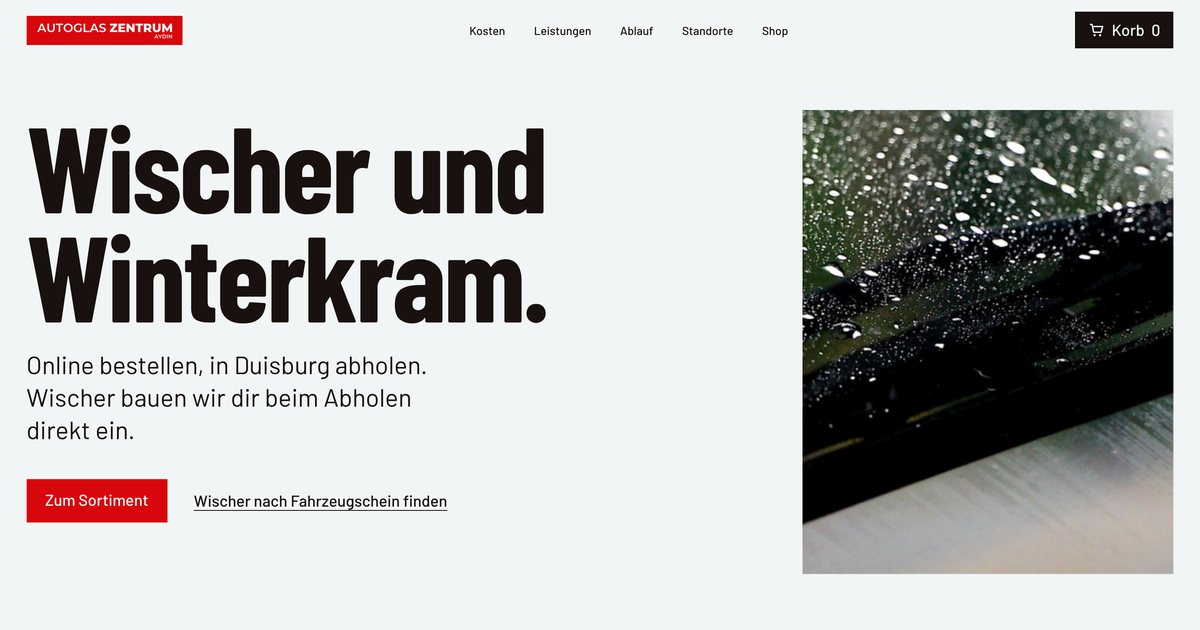
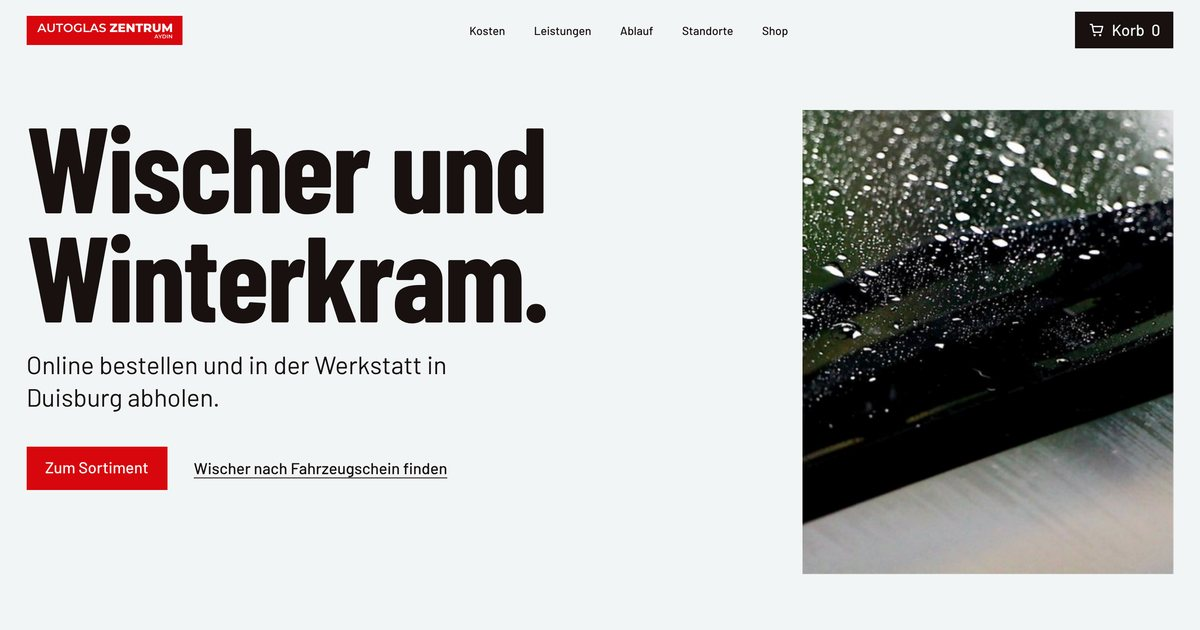
QA-Abnahme: letzte unbelegte Zusagen entschärft (Firmenhof, Wischer-Einbau, besorgen, Gummersbach geplant)
Alle Gates bestanden: Lint 0/0, Prüfer 0 FAIL auf beiden Seiten, 49/49
Funktionstests, Einzeldateien offline ohne Fehler, Docker mit noindex.

Claude-Session: https://claude.ai/code/session_01LPqz5AZFZjiiaU7bBMp3kH

Changed region(s): [[0.0, 0.573, 0.37, 0.8444]]

diff --git a/vorschau-einzeldatei/Autoglas-Aydin-Startseite.html b/vorschau-einzeldatei/Autoglas-Aydin-Startseite.html
@@ -691,7 +691,7 @@ input[type="range"]::-moz-range-thumb { width: 1.6rem; height: 1.6rem; backgroun
     <li><a href="https://wa.me/4917620908479?text=Hallo%2C%20ich%20habe%20eine%20Frage%20zur%20Versicherung" data-wa><span>Abrechnung</span><span>Direkt mit der Versicherung</span><span>alle gängigen Versicherer</span></a></li>
     <li><a href="https://wa.me/4917620908479?text=Hallo%2C%20ich%20brauche%20eine%20Scheibe%20f%C3%BCr%20Pkw%2FSUV%2FTransporter" data-wa><span>Fahrzeuge</span><span>Pkw, SUV, Transporter</span><span>alle Marken</span></a></li>
     <li><a href="https://wa.me/4917620908479?text=Hallo%2C%20ich%20brauche%20eine%20Scheibe%20f%C3%BCr%20Wohnmobil%2FLkw%2FUS-Car" data-wa><span>Fahrzeuge</span><span>Wohnmobil, Lkw, US-Car</span><span>auch große Scheiben</span></a></li>
-    <li class="gruppe"><a href="https://wa.me/4917620908479?text=Hallo%2C%20wir%20sind%20eine%20Firma%20mit%20mehreren%20Fahrzeugen" data-wa><span>Firmen</span><span>Fuhrparks und Dienstwagen</span><span>auch auf eurem Hof</span></a></li>
+    <li class="gruppe"><a href="https://wa.me/4917620908479?text=Hallo%2C%20wir%20sind%20eine%20Firma%20mit%20mehreren%20Fahrzeugen" data-wa><span>Firmen</span><span>Fuhrparks und Dienstwagen</span><span>für Firmenkunden</span></a></li>
     <li><a href="Autoglas-Aydin-Shop.html"><span>Zubehör</span><span>Wischer und Pflege</span><span>zum Shop</span></a></li>
   </ul>
 </section>
@@ -761,12 +761,12 @@ input[type="range"]::-moz-range-thumb { width: 1.6rem; height: 1.6rem; backgroun
     </form>
   </div>
   <figure class="karte" data-karte>
-    <svg viewBox="0 0 982 911" role="img" aria-labelledby="karte-titel" data-karte-svg><title id="karte-titel">Karte: Werkstatt Duisburg mit 50-Kilometer-Umkreis, Standort Essen (Adresse folgt) und Gummersbach (bald)</title></svg>
+    <svg viewBox="0 0 982 911" role="img" aria-labelledby="karte-titel" data-karte-svg><title id="karte-titel">Karte: Werkstatt Duisburg mit 50-Kilometer-Umkreis, Standort Essen (Adresse folgt) und Gummersbach (geplant)</title></svg>
   </figure>
   <a class="standorte__adresse" href="https://maps.app.goo.gl/vNScVN2UxSXLt74x9" rel="noopener"><span>Duisburger</span> <span>Str. 150</span></a>
   <div class="standorte__ecken">
     <p>47166 Duisburg-Obermarxloh · Mo bis Sa 9:30 bis 18:00 · <a href="tel:+4920336989833">0203 36989833</a></p>
-    <p>Essen: Adresse folgt · Gummersbach: bald, Neues auf <a href="https://www.instagram.com/autoglaszentrumaydin/" rel="noopener">Instagram</a></p>
+    <p>Essen: Adresse folgt · Gummersbach: geplant, Neues auf <a href="https://www.instagram.com/autoglaszentrumaydin/" rel="noopener">Instagram</a></p>
   </div>
 </section>
 
@@ -1090,7 +1090,7 @@ window.AZA_MAP = {"bbox":[5.95,7.72,50.95,51.98],"latc":51.45,"kx":69.3743294438
     };
     marke(WERKSTATT.lat, WERKSTATT.lon, 'Werkstatt Duisburg', 'haupt', [18, -16, 'start']);
     marke(51.4556, 7.0116, 'Essen, Adresse folgt', 'bald', [18, 32, 'start']);
-    marke(51.0266, 7.5646, 'Gummersbach, bald', 'bald', [-16, -18, 'end']);
+    marke(51.0266, 7.5646, 'Gummersbach, geplant', 'bald', [-16, -18, 'end']);
 
     // Prüfer
     const form = $('[data-pruefer]'); const input = $('[data-ort-eingabe]'); const out = $('[data-ergebnis-ort]'); const dl = $('[data-orte-liste]');
@@ -1102,7 +1102,7 @@ window.AZA_MAP = {"bbox":[5.95,7.72,50.95,51.98],"latc":51.45,"kx":69.3743294438
       const d = Math.max(1, Math.round(kmZwischen(WERKSTATT, { lat, lon })));
       const zuGummersbach = kmZwischen({ lat: 51.0266, lon: 7.5646 }, { lat, lon });
       if (d <= 50) sag(`${name}: rund ${d} km Luftlinie. Wir kommen zu dir, oder du kommst vorbei.`);
-      else if (zuGummersbach < 28) sag(`${name}: rund ${d} km. In Gummersbach eröffnen wir bald, dann bist du näher dran.`);
+      else if (zuGummersbach < 28) sag(`${name}: rund ${d} km. In Gummersbach ist ein Standort geplant, dann bist du näher dran.`);
       else sag(`${name}: rund ${d} km, das ist weiter als unsere 50 km. Komm in die Werkstatt nach Duisburg oder ruf kurz an.`);
       ziel.textContent = '';
       const [x, y] = P(lat, lon);

diff --git a/vorschau-einzeldatei/Autoglas-Aydin-Shop.html b/vorschau-einzeldatei/Autoglas-Aydin-Shop.html
@@ -763,7 +763,7 @@ details.fuss__nachweis p { margin-top: 0.6rem; font-size: var(--step-body); }
 <section class="shopstart rand" aria-labelledby="shop-titel">
   <div class="shopstart__text">
     <h1 class="shopstart__titel" id="shop-titel"><span>Wischer und</span> <span>Winterkram.</span></h1>
-    <p class="shopstart__stuetze">Online bestellen, in Duisburg abholen. Wischer bauen wir dir beim Abholen direkt ein.</p>
+    <p class="shopstart__stuetze">Online bestellen und in der Werkstatt in Duisburg abholen.</p>
     <div class="shopstart__aktion">
       <a class="knopf knopf--rot" href="#sortiment">Zum Sortiment</a>
       <a class="textlink" href="#finder">Wischer nach Fahrzeugschein finden</a>
@@ -839,7 +839,7 @@ details.fuss__nachweis p { margin-top: 0.6rem; font-size: var(--step-body); }
 <section class="montage rand" aria-labelledby="montage-titel">
   <h2 id="montage-titel" data-auftritt><span>Hast eh einen Termin?</span> <span>Legen wir dazu.</span></h2>
   <div class="montage__text" data-auftritt>
-    <p>Neue Wischer oder Winterreiniger zum Termin? Schreib es in die WhatsApp. Wir legen alles bereit, Wischer bauen wir direkt ein.</p>
+    <p>Neue Wischer oder Winterreiniger zum Termin? Schreib es in die WhatsApp, wir legen alles bereit.</p>
     <a class="knopf knopf--rot" href="https://wa.me/4917620908479?text=Hallo%2C%20ich%20habe%20einen%20Termin%20und%20m%C3%B6chte%20Zubeh%C3%B6r%20dazu." data-wa><svg aria-hidden="true"><use href="#i-chat"/></svg>Zum Termin dazulegen</a>
   </div>
 </section>
@@ -1132,7 +1132,7 @@ details.fuss__nachweis p { margin-top: 0.6rem; font-size: var(--step-body); }
     };
     marke(WERKSTATT.lat, WERKSTATT.lon, 'Werkstatt Duisburg', 'haupt', [18, -16, 'start']);
     marke(51.4556, 7.0116, 'Essen, Adresse folgt', 'bald', [18, 32, 'start']);
-    marke(51.0266, 7.5646, 'Gummersbach, bald', 'bald', [-16, -18, 'end']);
+    marke(51.0266, 7.5646, 'Gummersbach, geplant', 'bald', [-16, -18, 'end']);
 
     // Prüfer
     const form = $('[data-pruefer]'); const input = $('[data-ort-eingabe]'); const out = $('[data-ergebnis-ort]'); const dl = $('[data-orte-liste]');
@@ -1144,7 +1144,7 @@ details.fuss__nachweis p { margin-top: 0.6rem; font-size: var(--step-body); }
       const d = Math.max(1, Math.round(kmZwischen(WERKSTATT, { lat, lon })));
       const zuGummersbach = kmZwischen({ lat: 51.0266, lon: 7.5646 }, { lat, lon });
       if (d <= 50) sag(`${name}: rund ${d} km Luftlinie. Wir kommen zu dir, oder du kommst vorbei.`);
-      else if (zuGummersbach < 28) sag(`${name}: rund ${d} km. In Gummersbach eröffnen wir bald, dann bist du näher dran.`);
+      else if (zuGummersbach < 28) sag(`${name}: rund ${d} km. In Gummersbach ist ein Standort geplant, dann bist du näher dran.`);
       else sag(`${name}: rund ${d} km, das ist weiter als unsere 50 km. Komm in die Werkstatt nach Duisburg oder ruf kurz an.`);
       ziel.textContent = '';
       const [x, y] = P(lat, lon);
@@ -1292,7 +1292,7 @@ details.fuss__nachweis p { margin-top: 0.6rem; font-size: var(--step-body); }
       regal.appendChild(li);
     });
     const extra = document.createElement('li'); extra.className = 'anfrage';
-    extra.innerHTML = `<h3>Nicht dabei? Wir besorgen es.</h3><p>Spezielle Wischer, Pflege oder Zubehör für dein Modell. Kurz schreiben, wir sagen dir Preis und Termin.</p><a class="knopf knopf--rot" href="${WA + encodeURIComponent('Hallo, ich suche folgendes Zubehör: ')}" data-wa>Per WhatsApp fragen</a>`;
+    extra.innerHTML = `<h3>Nicht dabei? Schreib uns, was du suchst.</h3><p>Spezielle Wischer, Pflege oder Zubehör für dein Modell. Kurz schreiben, wir sagen dir Preis und Termin.</p><a class="knopf knopf--rot" href="${WA + encodeURIComponent('Hallo, ich suche folgendes Zubehör: ')}" data-wa>Per WhatsApp fragen</a>`;
     regal.appendChild(extra);
     knoepfeMarkieren();
     auftritt();

diff --git a/index.html b/index.html
@@ -211,7 +211,7 @@
     <li><a href="https://wa.me/4917620908479?text=Hallo%2C%20ich%20habe%20eine%20Frage%20zur%20Versicherung" data-wa><span>Abrechnung</span><span>Direkt mit der Versicherung</span><span>alle gängigen Versicherer</span></a></li>
     <li><a href="https://wa.me/4917620908479?text=Hallo%2C%20ich%20brauche%20eine%20Scheibe%20f%C3%BCr%20Pkw%2FSUV%2FTransporter" data-wa><span>Fahrzeuge</span><span>Pkw, SUV, Transporter</span><span>alle Marken</span></a></li>
     <li><a href="https://wa.me/4917620908479?text=Hallo%2C%20ich%20brauche%20eine%20Scheibe%20f%C3%BCr%20Wohnmobil%2FLkw%2FUS-Car" data-wa><span>Fahrzeuge</span><span>Wohnmobil, Lkw, US-Car</span><span>auch große Scheiben</span></a></li>
-    <li class="gruppe"><a href="https://wa.me/4917620908479?text=Hallo%2C%20wir%20sind%20eine%20Firma%20mit%20mehreren%20Fahrzeugen" data-wa><span>Firmen</span><span>Fuhrparks und Dienstwagen</span><span>auch auf eurem Hof</span></a></li>
+    <li class="gruppe"><a href="https://wa.me/4917620908479?text=Hallo%2C%20wir%20sind%20eine%20Firma%20mit%20mehreren%20Fahrzeugen" data-wa><span>Firmen</span><span>Fuhrparks und Dienstwagen</span><span>für Firmenkunden</span></a></li>
     <li><a href="shop.html"><span>Zubehör</span><span>Wischer und Pflege</span><span>zum Shop</span></a></li>
   </ul>
 </section>
@@ -281,12 +281,12 @@
     </form>
   </div>
   <figure class="karte" data-karte>
-    <svg viewBox="0 0 982 911" role="img" aria-labelledby="karte-titel" data-karte-svg><title id="karte-titel">Karte: Werkstatt Duisburg mit 50-Kilometer-Umkreis, Standort Essen (Adresse folgt) und Gummersbach (bald)</title></svg>
+    <svg viewBox="0 0 982 911" role="img" aria-labelledby="karte-titel" data-karte-svg><title id="karte-titel">Karte: Werkstatt Duisburg mit 50-Kilometer-Umkreis, Standort Essen (Adresse folgt) und Gummersbach (geplant)</title></svg>
   </figure>
   <a class="standorte__adresse" href="https://maps.app.goo.gl/vNScVN2UxSXLt74x9" rel="noopener"><span>Duisburger</span> <span>Str. 150</span></a>
   <div class="standorte__ecken">
     <p>47166 Duisburg-Obermarxloh · Mo bis Sa 9:30 bis 18:00 · <a href="tel:+4920336989833">0203 36989833</a></p>
-    <p>Essen: Adresse folgt · Gummersbach: bald, Neues auf <a href="https://www.instagram.com/autoglaszentrumaydin/" rel="noopener">Instagram</a></p>
+    <p>Essen: Adresse folgt · Gummersbach: geplant, Neues auf <a href="https://www.instagram.com/autoglaszentrumaydin/" rel="noopener">Instagram</a></p>
   </div>
 </section>
 

diff --git a/shop.html b/shop.html
@@ -69,7 +69,7 @@
 <section class="shopstart rand" aria-labelledby="shop-titel">
   <div class="shopstart__text">
     <h1 class="shopstart__titel" id="shop-titel"><span>Wischer und</span> <span>Winterkram.</span></h1>
-    <p class="shopstart__stuetze">Online bestellen, in Duisburg abholen. Wischer bauen wir dir beim Abholen direkt ein.</p>
+    <p class="shopstart__stuetze">Online bestellen und in der Werkstatt in Duisburg abholen.</p>
     <div class="shopstart__aktion">
       <a class="knopf knopf--rot" href="#sortiment">Zum Sortiment</a>
       <a class="textlink" href="#finder">Wischer nach Fahrzeugschein finden</a>
@@ -145,7 +145,7 @@
 <section class="montage rand" aria-labelledby="montage-titel">
   <h2 id="montage-titel" data-auftritt><span>Hast eh einen Termin?</span> <span>Legen wir dazu.</span></h2>
   <div class="montage__text" data-auftritt>
-    <p>Neue Wischer oder Winterreiniger zum Termin? Schreib es in die WhatsApp. Wir legen alles bereit, Wischer bauen wir direkt ein.</p>
+    <p>Neue Wischer oder Winterreiniger zum Termin? Schreib es in die WhatsApp, wir legen alles bereit.</p>
     <a class="knopf knopf--rot" href="https://wa.me/4917620908479?text=Hallo%2C%20ich%20habe%20einen%20Termin%20und%20m%C3%B6chte%20Zubeh%C3%B6r%20dazu." data-wa><svg aria-hidden="true"><use href="#i-chat"/></svg>Zum Termin dazulegen</a>
   </div>
 </section>

diff --git a/assets/js/site.js b/assets/js/site.js
@@ -240,7 +240,7 @@
     };
     marke(WERKSTATT.lat, WERKSTATT.lon, 'Werkstatt Duisburg', 'haupt', [18, -16, 'start']);
     marke(51.4556, 7.0116, 'Essen, Adresse folgt', 'bald', [18, 32, 'start']);
-    marke(51.0266, 7.5646, 'Gummersbach, bald', 'bald', [-16, -18, 'end']);
+    marke(51.0266, 7.5646, 'Gummersbach, geplant', 'bald', [-16, -18, 'end']);
 
     // Prüfer
     const form = $('[data-pruefer]'); const input = $('[data-ort-eingabe]'); const out = $('[data-ergebnis-ort]'); const dl = $('[data-orte-liste]');
@@ -252,7 +252,7 @@
       const d = Math.max(1, Math.round(kmZwischen(WERKSTATT, { lat, lon })));
       const zuGummersbach = kmZwischen({ lat: 51.0266, lon: 7.5646 }, { lat, lon });
       if (d <= 50) sag(`${name}: rund ${d} km Luftlinie. Wir kommen zu dir, oder du kommst vorbei.`);
-      else if (zuGummersbach < 28) sag(`${name}: rund ${d} km. In Gummersbach eröffnen wir bald, dann bist du näher dran.`);
+      else if (zuGummersbach < 28) sag(`${name}: rund ${d} km. In Gummersbach ist ein Standort geplant, dann bist du näher dran.`);
       else sag(`${name}: rund ${d} km, das ist weiter als unsere 50 km. Komm in die Werkstatt nach Duisburg oder ruf kurz an.`);
       ziel.textContent = '';
       const [x, y] = P(lat, lon);

diff --git a/assets/js/shop.js b/assets/js/shop.js
@@ -59,7 +59,7 @@
       regal.appendChild(li);
     });
     const extra = document.createElement('li'); extra.className = 'anfrage';
-    extra.innerHTML = `<h3>Nicht dabei? Wir besorgen es.</h3><p>Spezielle Wischer, Pflege oder Zubehör für dein Modell. Kurz schreiben, wir sagen dir Preis und Termin.</p><a class="knopf knopf--rot" href="${WA + encodeURIComponent('Hallo, ich suche folgendes Zubehör: ')}" data-wa>Per WhatsApp fragen</a>`;
+    extra.innerHTML = `<h3>Nicht dabei? Schreib uns, was du suchst.</h3><p>Spezielle Wischer, Pflege oder Zubehör für dein Modell. Kurz schreiben, wir sagen dir Preis und Termin.</p><a class="knopf knopf--rot" href="${WA + encodeURIComponent('Hallo, ich suche folgendes Zubehör: ')}" data-wa>Per WhatsApp fragen</a>`;
     regal.appendChild(extra);
     knoepfeMarkieren();
     auftritt();
